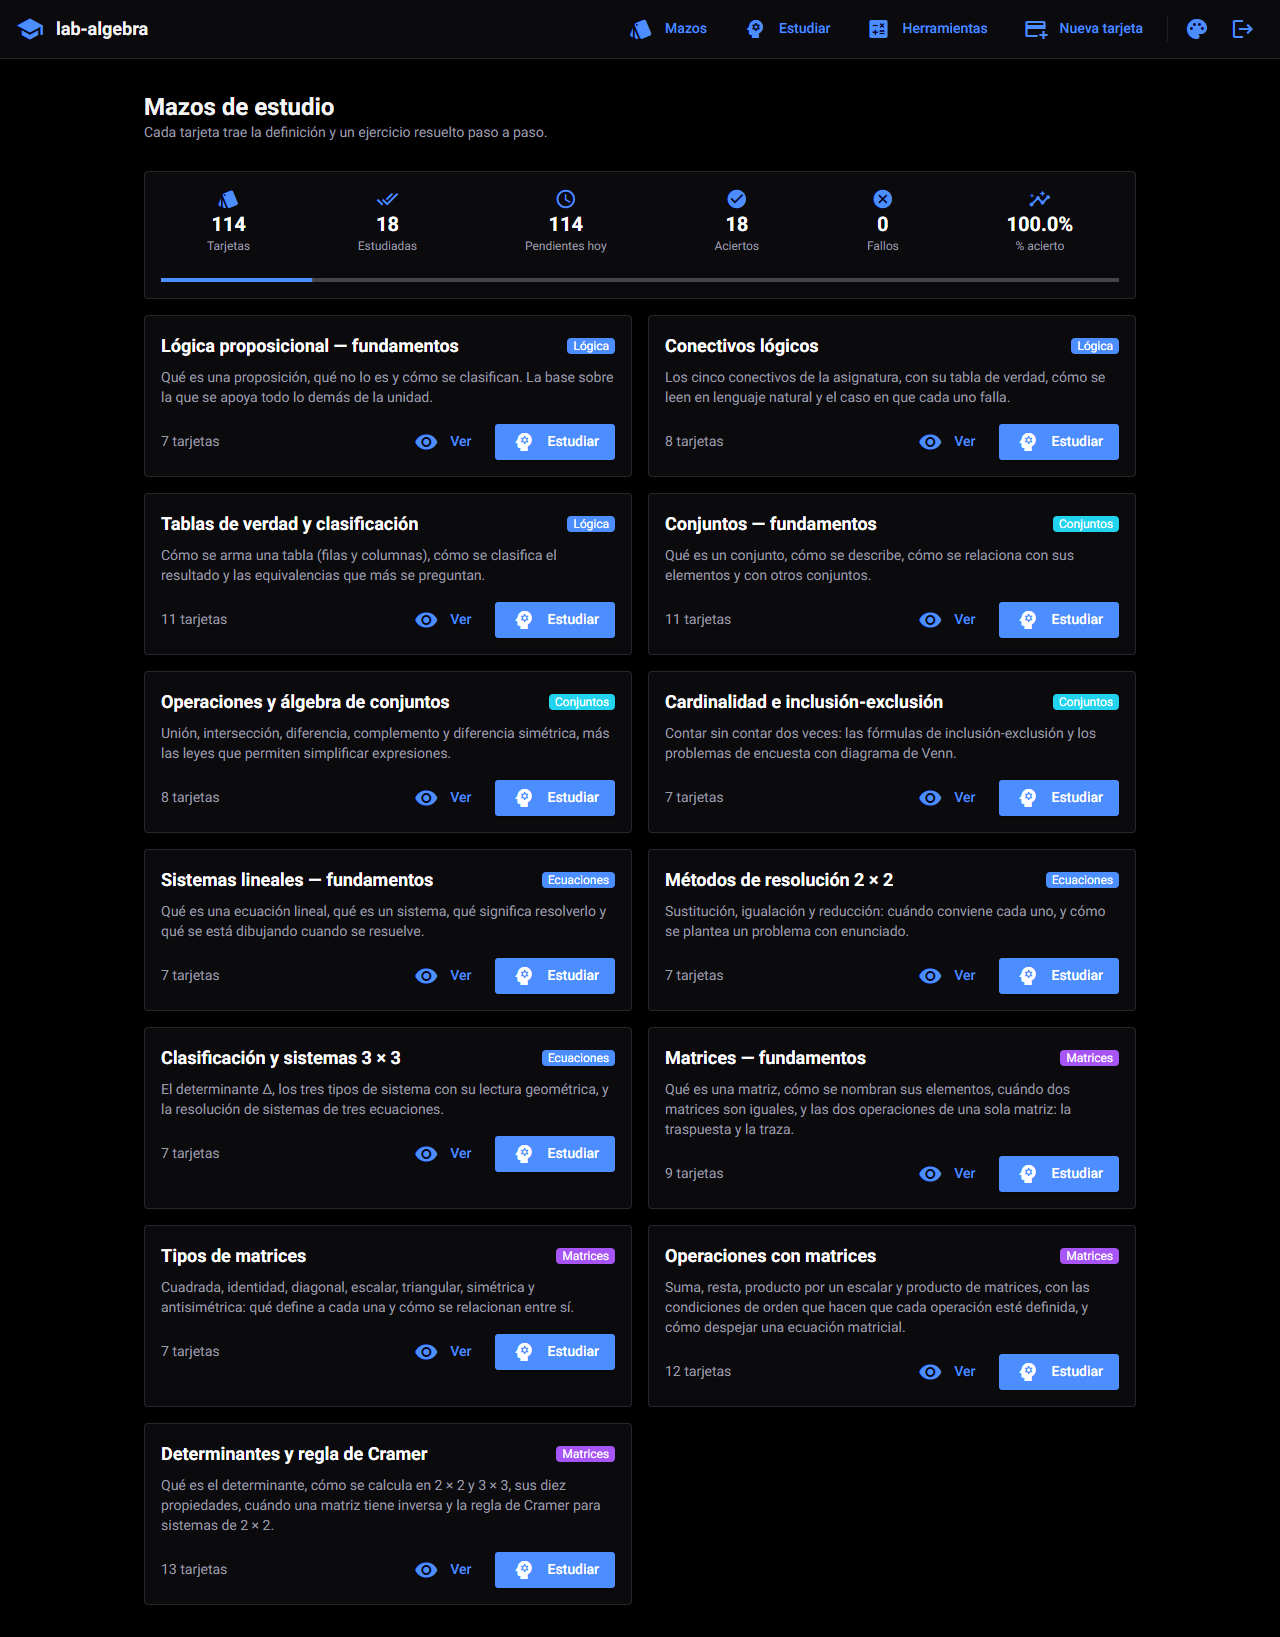
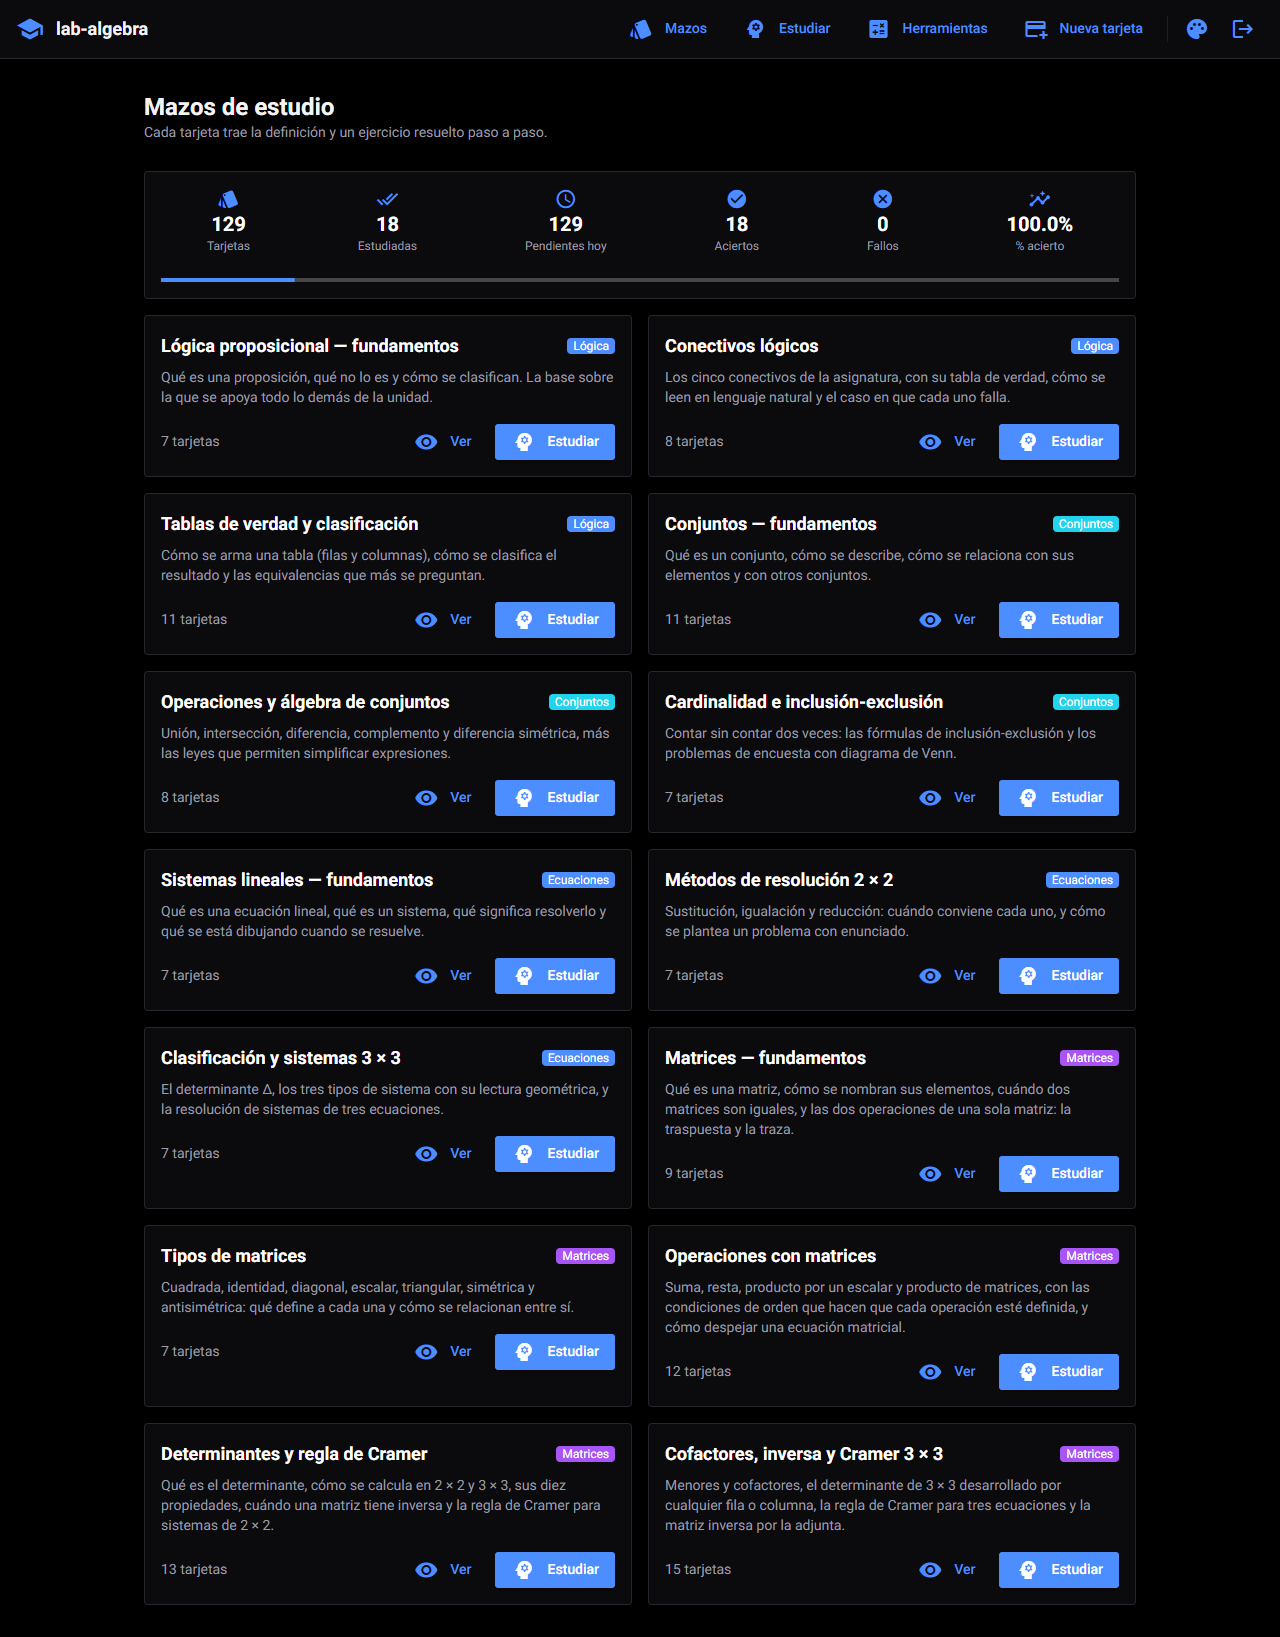
docs: segunda parte de matrices en el README y capturas nuevas
Cofactores, inversa y Cramer de 3 × 3; parámetros de las operaciones;
narración por cofactores frente a Sarrus; el matiz de Cramer de 3 × 3 con
D = 0. Capturas de la inversa, del determinante por columna y de una tarjeta
del mazo nuevo; portada con los 14 mazos.

Changed region(s): [[0.5, 0.8723, 0.875, 0.9969], [0.4375, 0.1246, 0.4688, 0.1558]]

diff --git a/README.md b/README.md
@@ -39,15 +39,15 @@ con **aritmética exacta** — donde la respuesta es 1/3 aparece 1/3, nunca 0,33
 
 | | |
 |---|---|
-| **114 tarjetas** | Trece mazos en cuatro unidades, todos con ejercicio resuelto y fuente anotada |
+| **129 tarjetas** | Catorce mazos en cuatro unidades, todos con ejercicio resuelto y fuente anotada |
 | **Repetición espaciada** | Variante de SM-2: lo que fallas vuelve hoy, lo que aciertas se aleja |
 | **Tablas de verdad** | Analizador propio con las precedencias de la asignatura |
 | **Diagramas de Venn** | matplotlib-venn, con las regiones calculadas por inclusión-exclusión |
-| **Sistemas lineales** | 2×2 y 3×3 en aritmética exacta: clasificación, Δ y desarrollo por cuatro métodos, Cramer incluido |
-| **Matrices** | Suma, producto, traspuesta, traza, tipos y determinante (2×2 y Sarrus) con numpy sobre fracciones exactas |
+| **Sistemas lineales** | 2×2 y 3×3 en aritmética exacta: clasificación, Δ y desarrollo por cuatro métodos, Cramer de 2×2 y 3×3 incluido |
+| **Matrices** | Operaciones, tipos, menores, cofactores, determinante por cualquier fila o columna, adjunta e inversa, con numpy sobre fracciones exactas |
 | **Tarjetas propias** | Se añaden desde la interfaz, sin tocar código ni reconstruir la imagen |
 | **Cuatro temas** | Tres paletas oscuras y una clara, con el contraste verificado |
-| **1363 pruebas** | 1312 del backend (con verificación contra sympy) y 51 de las paletas |
+| **1528 pruebas** | 1477 del backend (con verificación contra sympy) y 51 de las paletas |
 
 ## Cómo se ve
 
@@ -80,11 +80,21 @@ respuesta lo dice y explica por qué.
 
 ![Producto de matrices resuelto paso a paso](docs/capturas/08-herramientas-matrices.png)
 
-Y una tarjeta de determinantes: el motor recalcula por Sarrus, reconoce la
-propiedad que permitía saber el resultado sin calcular —aquí, dos filas
-iguales— y dice si la matriz admite inversa.
+La inversa de 3 × 3 por la adjunta, con los cuatro pasos de la lámina 21
+—determinante, cofactores, trasponer, dividir— y la comprobación A·A⁻¹ = I al
+final:
 
-![Tarjeta de determinantes con la matriz singular](docs/capturas/09-tarjeta-determinante.png)
+![Inversa de 3×3 resuelta paso a paso](docs/capturas/10-herramientas-inversa.png)
+
+El determinante se desarrolla **por la fila o columna que elijas**: aquí, por
+la columna 3, como en la lámina 11, y da el mismo 138 que por la fila 1.
+
+![Determinante desarrollado por la columna 3](docs/capturas/11-determinante-por-columna.png)
+
+Y una tarjeta del mazo de cofactores: el desarrollo escrito a mano arriba y,
+debajo, el que recalcula el motor.
+
+![Tarjeta del menor de un elemento](docs/capturas/09-tarjeta-determinante.png)
 
 ## Temas
 
@@ -167,7 +177,7 @@ por debajo de «Con esfuerzo» reinicia la serie y la tarjeta vuelve el mismo
 día; las acertadas se alejan progresivamente (1 día, 3 días, y a partir de ahí
 multiplicando por su factor de facilidad).
 
-**Consultar.** «Mazos» lista los trece mazos; dentro de cada uno, las tarjetas
+**Consultar.** «Mazos» lista los catorce mazos; dentro de cada uno, las tarjetas
 se despliegan enteras y hay un buscador que mira tanto el concepto como la
 definición. Esta es la vista para repasar la víspera de la prueba.
 
@@ -190,14 +200,22 @@ definición. Esta es la vista para repasar la víspera de la prueba.
   (`1/2`, `-19/2`) y todo se calcula en **aritmética exacta**: nunca aparece un
   0,333 donde el enunciado dice 1/3. En 2 × 2 se puede pedir el desarrollo por
   **sustitución, igualación, reducción o la regla de Cramer** (D, Dₓ y D_y);
-  en 3 × 3 va siempre por reducción, que es el sistemático.
+  en 3 × 3, por **reducción o Cramer**, que son los dos que enseña el curso
+  para ese orden. El selector ofrece en cada orden solo los métodos que le
+  corresponden, y la lista la sirve el backend.
 - **Matrices** de hasta 4 × 4: tipo de matriz (cuadrada, identidad, diagonal,
   escalar, triangular, simétrica, antisimétrica), suma, resta, producto por un
   escalar, combinación kA + mB, producto en los dos órdenes, traspuesta, traza
-  y determinante de 2 × 2 o 3 × 3. Cada operación abre con el ejemplo de su
-  lámina. El determinante dice si la matriz **admite inversa** y, cuando una de
-  las propiedades del PDF permitía saber el valor sin calcularlo (una línea de
-  ceros, dos iguales o proporcionales, una triangular), lo señala.
+  y determinante de 2 × 2 o 3 × 3; **menor** y **cofactor** de un elemento,
+  **matriz de cofactores**, **adjunta** e **inversa**. Cada operación abre con
+  el ejemplo de su lámina y muestra solo los campos que pide (k y m, la fila i
+  y la columna j, la línea de desarrollo). El determinante de 3 × 3 se narra
+  **por cofactores en la fila o columna que se elija**, como lo enseña el
+  curso; Sarrus queda como opción. Dice si la matriz **admite inversa** y,
+  cuando una de las propiedades del PDF permitía saber el valor sin calcularlo
+  (una línea de ceros, dos iguales o proporcionales, una triangular), lo
+  señala. La inversa termina comprobando que A·A⁻¹ = I, y si la matriz es
+  singular responde que no existe, sin error.
 
 **Añadir material.** «Nueva tarjeta» permite crear tarjetas y mazos propios
 para las unidades que vengan después. Entran en la misma cola de repaso. Si
@@ -258,8 +276,8 @@ backend/app/
 │   ├── logica.py      analizador y tablas de verdad
 │   ├── conjuntos.py   operaciones e inclusión-exclusión
 │   ├── numeros.py     fracciones exactas: lectura y escritura compartidas
-│   ├── ecuaciones.py  sistemas lineales exactos, su clasificación y Cramer
-│   ├── matrices.py    operaciones, tipos y determinantes (numpy + Fraction)
+│   ├── ecuaciones.py  sistemas lineales exactos, su clasificación y Cramer 2×2/3×3
+│   ├── matrices.py    operaciones, tipos, cofactores, inversa (numpy + Fraction)
 │   ├── venn.py        diagramas en PNG
 │   └── repaso.py      repetición espaciada
 └── seed/              el temario, en Python plano
@@ -269,10 +287,19 @@ Los servicios no importan FastAPI ni SQLAlchemy: se prueban llamándolos
 directamente, sin levantar nada.
 
 `matrices.py` está escrito de forma **declarativa**: los tipos de matriz, los
-requisitos de cada operación, las operaciones y los atajos del determinante
-son registros de datos (`TIPOS`, `OPERACIONES`, `ATAJOS`) y no cadenas de `if`.
-Añadir una operación es añadir una entrada; la interfaz la muestra sola, porque
-construye su formulario a partir de `GET /herramientas/matrices/operaciones`.
+requisitos de cada operación, los parámetros que pide, las operaciones y los
+atajos del determinante son registros de datos (`TIPOS`, `PARAMETROS`,
+`OPERACIONES`, `ATAJOS`) y no cadenas de `if`. Añadir una operación es añadir
+una entrada; la interfaz la muestra sola, con sus campos, porque construye el
+formulario a partir de `GET /herramientas/matrices/operaciones`. Lo mismo vale
+para los métodos de resolver sistemas: `METODOS_POR_ORDEN` en `ecuaciones.py`,
+publicado en `GET /herramientas/ecuaciones/metodos`.
+
+El determinante se **calcula** siempre igual —desarrollo de Laplace,
+`determinante()`— y se **narra** como pida el usuario: por cofactores en
+cualquier línea o, si se elige, por Sarrus. Un test comprueba que las seis
+líneas dan el mismo valor y que la suma escrita en la narración, reevaluada,
+coincide con el cálculo.
 Las matrices son arrays de **numpy** con `dtype=object` y entradas `Fraction`:
 se aprovecha el álgebra vectorizada (`A @ B`, `A.T`, `np.trace`, `np.tril`)
 sin perder exactitud. `np.linalg.det` queda fuera a propósito: trabaja en coma
@@ -325,7 +352,11 @@ es texto en español que puede cambiar sin romper nada.
 | Tipos de matrices | Matrices | 7 | Matrices y determinantes, láminas 5 a 20 |
 | Operaciones con matrices | Matrices | 12 | Matrices y determinantes, láminas 21 a 34 |
 | Determinantes y regla de Cramer | Matrices | 13 | Matrices y determinantes, láminas 35 a 47 |
-| | | **114** | |
+| Cofactores, inversa y Cramer 3 × 3 | Matrices | 15 | Matrices y determinantes II, láminas 1 a 27 |
+| | | **129** | |
+
+«Matrices y determinantes» es el archivo `Matrices-Determinantes.pdf` de la
+asignatura; «Matrices y determinantes II», el `Matrices-determ.pdf`.
 
 Cada tarjeta guarda la lámina exacta de la que sale, de modo que cualquier duda
 se resuelve volviendo al PDF y no discutiendo con la aplicación.
@@ -333,16 +364,24 @@ se resuelve volviendo al PDF y no discutiendo con la aplicación.
 Cada unidad cubre lo que se enseñó y **solo** lo que se enseñó. La de
 ecuaciones: los tres métodos, la clasificación, la interpretación geométrica y
 el Δ de 2 × 2. La de matrices: tipos, operaciones, ecuaciones matriciales,
-determinantes de 2 × 2 y 3 × 3 con sus diez propiedades, y la regla de Cramer
-de 2 × 2, que entra como cuarto método del motor de ecuaciones. No hay Cramer
-de orden 3, ni **cálculo** de la matriz inversa, ni rangos: el PDF dice cuándo
-existe la inversa (det ≠ 0) y la usa para despejar, pero no enseña a
-calcularla. El criterio de qué entra es el temario, no lo que sea técnicamente
-posible.
+determinantes de 2 × 2 y 3 × 3 con sus diez propiedades, menores, cofactores,
+la adjunta, la inversa por la adjunta y la regla de Cramer de 2 × 2 y de
+3 × 3, que entra como cuarto método del motor de ecuaciones. No hay rangos, ni
+inversa por Gauss-Jordan, ni determinantes de orden mayor que 3 como
+operación: ninguno de los dos PDF los enseña. El criterio de qué entra es el
+temario, no lo que sea técnicamente posible.
 
-El PDF de matrices da valores de determinantes de 3 × 3 sin mostrar el método.
-El laboratorio los calcula y los narra con la **regla de Sarrus**, y la tarjeta
-correspondiente lo dice expresamente en vez de atribuírselo a la lámina.
+El primer PDF de matrices daba determinantes de 3 × 3 sin enseñar el método, y
+la v1.2.0 los narraba con la **regla de Sarrus**. El segundo PDF enseña el
+**desarrollo por cofactores**, así que desde la v1.3.0 esa es la narración por
+defecto; Sarrus sigue disponible como opción y su tarjeta dice que es un atajo
+que solo vale en 3 × 3.
+
+En Cramer de 3 × 3 hay un matiz que el laboratorio respeta: con D = 0, que Dₓ,
+D_y y D_z valgan también 0 **no** garantiza infinitas soluciones (tres planos
+paralelos lo desmienten), a diferencia del 2 × 2. Por eso el desarrollo no los
+calcula en ese caso y deja decidir a la eliminación; hay un test con ese
+contraejemplo.
 
 La carga es **idempotente**: se ejecuta en cada arranque, corrige el texto de
 las tarjetas del temario si cambió y **nunca toca una tarjeta creada por el
@@ -425,9 +464,11 @@ huérfano—, porque una disciplina que depende de acordarse no es una
 disciplina.
 
 `matriz` lleva la misma forma que el cuerpo de `POST /herramientas/matrices`:
-`{"operacion": "producto", "a": [[…]], "b": [[…]]}`, con `k` y `m` cuando la
-operación usa escalares. Las operaciones disponibles y lo que pide cada una
-están en `GET /herramientas/matrices/operaciones`.
+`{"operacion": "producto", "a": [[…]], "b": [[…]]}`, más los parámetros que
+pida la operación: `k` y `m` (escalares), `i` y `j` (fila y columna en base 1,
+para menores y cofactores) o `desarrollo` (`"fila 2"`, `"columna 3"`,
+`"Sarrus"`). Las operaciones disponibles y lo que pide cada una están en
+`GET /herramientas/matrices/operaciones`.
 
 Los coeficientes de `sistema` y las entradas de `matriz` se escriben como
 entero o como **texto**
@@ -473,6 +514,14 @@ matrices con incógnitas (láminas 7 y 8) se resuelven aparte con `sympy.solve`.
 Y la regla de Cramer se contrastó contra los 34 sistemas de 2 × 2 del banco de
 la carpeta de apuntes: coincide con la reducción en todos.
 
+La segunda parte añade sus propias comprobaciones: menores, matriz de
+cofactores, adjunta e inversa contra `sympy` (`minor`, `cofactor_matrix`,
+`adjugate`, `inv`) en cientos de matrices aleatorias; toda inversa calculada
+se multiplica por A y tiene que dar la identidad; Cramer de 3 × 3 coincide con
+la reducción en 300 sistemas al azar. Las 16 claves impresas en el segundo
+PDF se comprobaron con sympy antes de escribir una sola tarjeta, y estaban
+todas bien.
+
 Además, las funciones de conteo **rechazan regiones negativas**: un enunciado
 mal copiado no puede producir un diagrama imposible con una respuesta creíble.
 Y el motor de ecuaciones **rechaza los coeficientes con coma**: aceptar 0,333
@@ -495,8 +544,9 @@ exactamente cero saldría como 1e−17.
 
 El último job es el que justifica el pipeline: comprueba que el laboratorio
 **inicia sesión, sirve el temario de las cuatro unidades y calcula** —una
-tabla de verdad, un reparto de Venn, un sistema con fracciones, un sistema por
-Cramer y un determinante con fracciones— de punta a punta. Un
+tabla de verdad, un reparto de Venn, un sistema con fracciones, sistemas por
+Cramer de 2 × 2 y de 3 × 3, un determinante con fracciones y una inversa— de
+punta a punta. Un
 CI que solo lintea da falsa seguridad.
 
 La prueba de humo comprueba también que un sistema con coeficiente `1/2` vuelve
